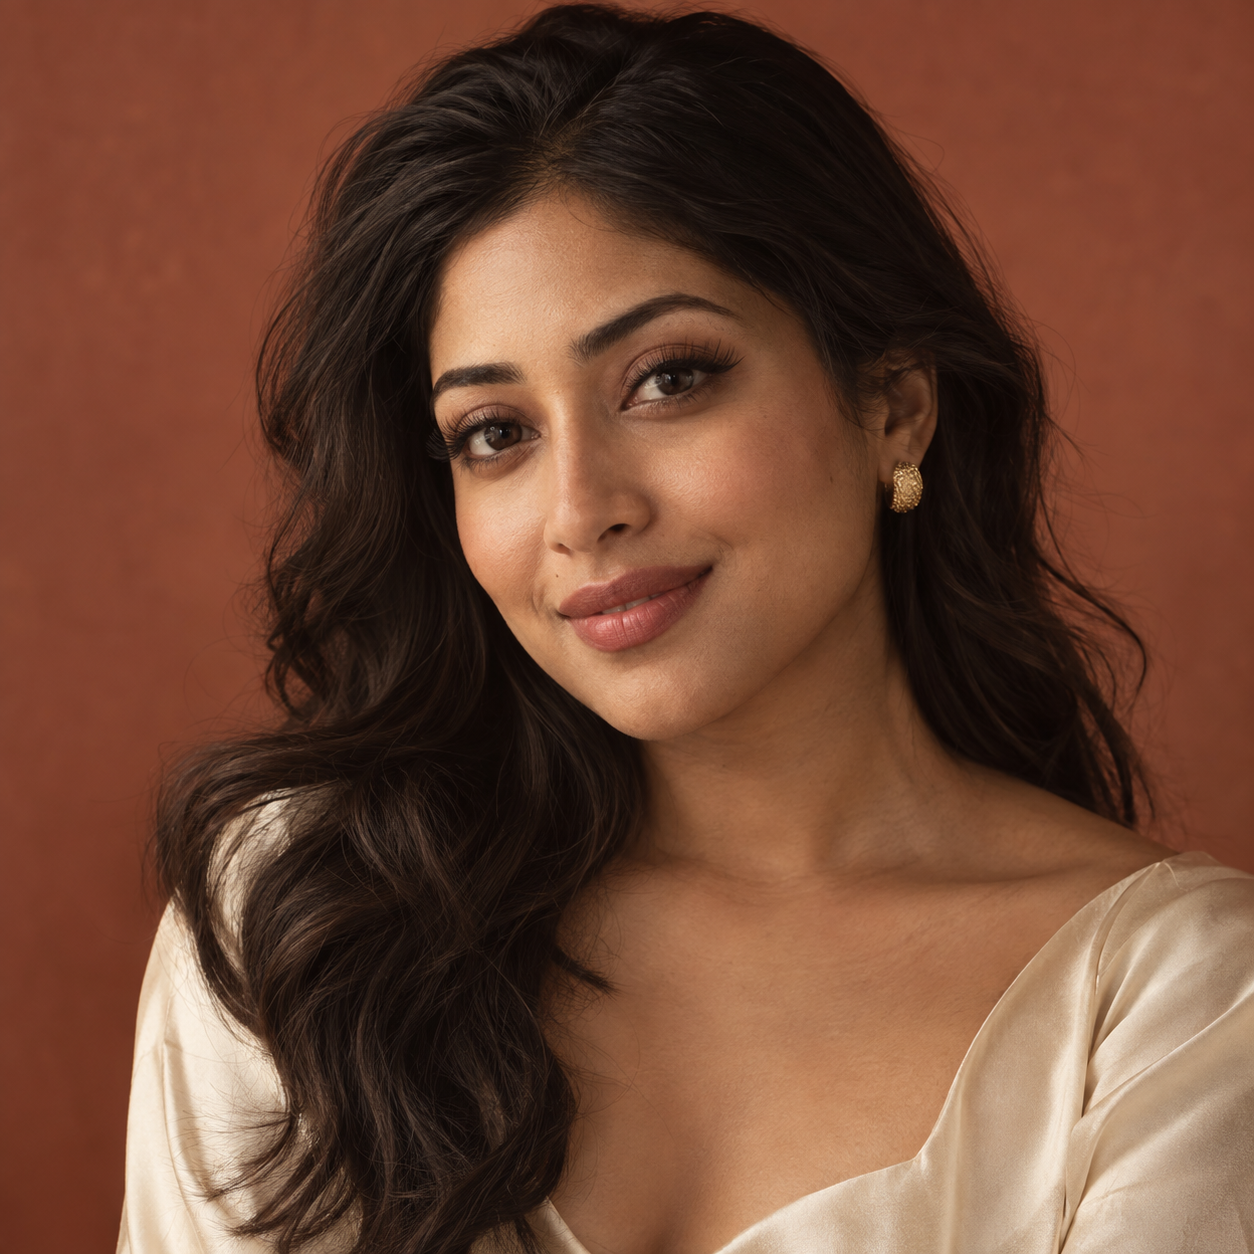
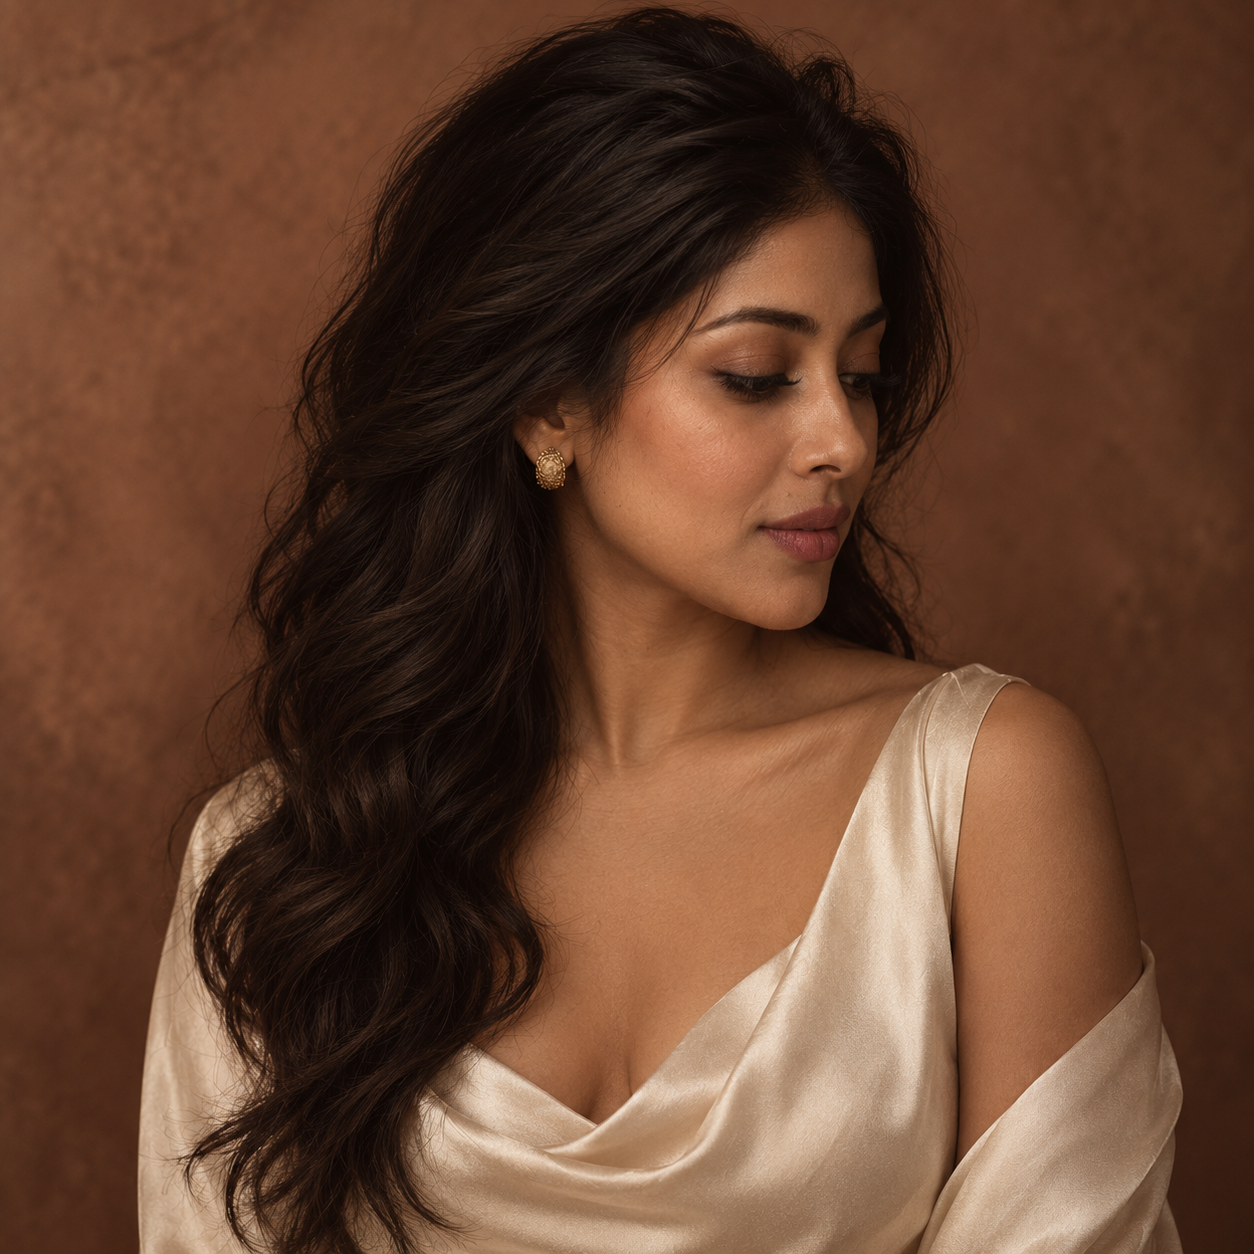
v0.0.0.1-BengaliBlush

diff --git a/src/styles/_bengali-blush.scss b/src/styles/_bengali-blush.scss
@@ -26,6 +26,7 @@
   --app-font-sans: var(--font-dm-sans), sans-serif;
   --app-font-serif: var(--font-fraunces), Georgia, serif;
   --app-font-mono: var(--font-dm-mono), monospace;
+  --app-font-signature: var(--font-allura), 'Brush Script MT', cursive;
 }
 
 // #mobile-navigation {
@@ -73,17 +74,17 @@ a { color: inherit; text-decoration: none; }
 .bb-section-heading p { max-width: 330px; margin: 0 0 4px; color: hsl(var(--muted-foreground)); line-height: 1.65; font-size: 14px; }
 
 .bb-header { position: absolute; z-index: 25; inset: 0 0 auto; border-bottom: 1px solid transparent; background: transparent; color: hsl(var(--card)); transition: color .3s ease, border-color .36s ease, box-shadow .36s ease; }
-.bb-header::before { position: absolute; z-index: -1; inset: 0; background: hsl(var(--primary) / 0); backdrop-filter: blur(0) saturate(100%); -webkit-backdrop-filter: blur(0) saturate(100%); content: ''; pointer-events: none; transition: background-color .36s ease, backdrop-filter .42s cubic-bezier(.2,.85,.25,1), -webkit-backdrop-filter .42s cubic-bezier(.2,.85,.25,1); }
+.bb-header::before { position: absolute; z-index: -1; inset: 0; background: hsl(var(--primary) / 0); -webkit-backdrop-filter: blur(0) saturate(100%); backdrop-filter: blur(0) saturate(100%); content: ''; pointer-events: none; transition: background-color .36s ease, backdrop-filter .42s cubic-bezier(.2,.85,.25,1), -webkit-backdrop-filter .42s cubic-bezier(.2,.85,.25,1); }
 .bb-header.is-sticky { position: fixed; }
 .bb-header.is-sticky.is-scrolled, .bb-header.is-menu-open { border-color: hsl(var(--secondary) / .16); box-shadow: 0 12px 34px hsl(340 32% 15% / .14); }
-.bb-header.is-sticky.is-scrolled::before, .bb-header.is-menu-open::before { background: hsl(var(--primary) / .74); backdrop-filter: blur(20px) saturate(125%); -webkit-backdrop-filter: blur(20px) saturate(125%); }
+.bb-header.is-sticky.is-scrolled::before, .bb-header.is-menu-open::before { background: hsl(var(--primary) / .74); -webkit-backdrop-filter: blur(20px) saturate(125%); backdrop-filter: blur(20px) saturate(125%); }
 .bb-header-inner { position: relative; z-index: 2; display: flex; align-items: center; justify-content: space-between; padding: 24px 0; }
 .bb-header-inner.is-full-width { width: 100%; padding-inline: clamp(18px, 3.2vw, 54px); }
 .bb-logo { display: inline-flex; align-items: center; gap: 11px; border: 0; padding: 0; background: transparent; color: inherit; text-align: left; }
 .bb-logo-mark { display: block; width: 39px; height: 39px; flex: none; background: url('/favicon.svg?v=bb-arc') center / contain no-repeat; }
 .bb-logo-text { font-family: var(--app-font-serif); font-size: 21px; letter-spacing: -.04em; }
 .bb-nav { display: flex; align-items: center; gap: 34px; }
-.bb-nav button { position: relative; display: inline-flex; align-items: center; gap: 6px; border: 0; padding: 0; background: transparent; color: rgba(255, 242, 226, .8); font-size: 12px; }
+.bb-nav button { position: relative; display: inline-flex; align-items: center; gap: 6px; border: 0; padding: 0; background: transparent; color: rgba(255, 242, 226, .8); font-size: 12px; font-weight: 600; }
 .bb-nav button::after { position: absolute; right: 0; bottom: -7px; left: 0; height: 1px; background: hsl(var(--secondary)); content: ''; transform: scaleX(0); transform-origin: right; transition: transform .3s ease; }
 .bb-nav button:hover::after, .bb-nav button:focus-visible::after { transform: scaleX(1); transform-origin: left; }
 .bb-header-actions { display: flex; align-items: center; gap: 13px; }
@@ -102,9 +103,10 @@ a { color: inherit; text-decoration: none; }
 .bb-header.is-menu-open .bb-menu-icon > span:nth-child(1) { transform: rotate(45deg); }
 .bb-header.is-menu-open .bb-menu-icon > span:nth-child(2) { opacity: 0; transform: scaleX(.25); }
 .bb-header.is-menu-open .bb-menu-icon > span:nth-child(3) { transform: rotate(-45deg); }
+.bb-bag-control { position: relative; display: inline-flex; }
 .bb-bag-button { position: relative; display: inline-flex; width: 40px; height: 40px; align-items: center; justify-content: center; border: 1px solid hsl(var(--card) / .45); border-radius: 50%; background: transparent; color: hsl(var(--card)); transition: border-color .2s ease, color .2s ease; }
 .bb-bag-button:hover { border-color: hsl(var(--secondary)); }
-.bb-bag-count { position: absolute; top: -1px; right: -1px; display: grid; width: 17px; height: 17px; place-items: center; border-radius: 50%; background: hsl(var(--secondary)); color: hsl(var(--foreground)); font-family: var(--app-font-mono); font-size: 9px; }
+.bb-bag-count { position: absolute; top: -1px; right: -1px; display: grid; width: 17px; height: 17px; place-items: center; border-radius: 50%; background: hsl(var(--secondary)); color: hsl(var(--foreground)); font-family: var(--app-font-mono); font-size: 9px; pointer-events: none; }
 .bb-mobile-panel { display: none; }
 
 .bb-hero { position: relative; min-height: 740px; display: flex; align-items: center; color: hsl(var(--card)); background: hsl(var(--primary)); }
@@ -137,11 +139,12 @@ a { color: inherit; text-decoration: none; }
 .bb-intro-copy h2 { margin: 18px 0 21px; max-width: 550px; font-family: var(--app-font-serif); font-size: clamp(41px, 5.2vw, 74px); font-weight: 500; line-height: 1.03; letter-spacing: -.055em; }
 .bb-intro-copy h2 em { color: hsl(var(--primary)); }
 .bb-intro-copy > p { max-width: 430px; color: hsl(var(--muted-foreground)); font-size: 15px; line-height: 1.75; }
-.bb-founder-note { max-width: 440px; margin-top: 30px; border-top: 1px solid hsl(var(--primary) / .25); padding-top: 20px; }
+.bb-founder-note { max-width: 440px; margin-top: 30px; }
 .bb-founder-meta { display: flex; flex-wrap: wrap; justify-content: space-between; gap: 8px 18px; margin-top: 16px; color: hsl(var(--primary)); font-family: var(--app-font-mono); font-size: 10px; letter-spacing: .1em; text-transform: uppercase; }
+.bb-founder-meta span:first-child { color: hsl(var(--foreground)); }
 .bb-founder-signature { display: grid; gap: 2px; color: hsl(var(--primary)); font-family: var(--app-font-serif); }
-.bb-founder-signature span { font-size: 18px; font-style: italic; }
-.bb-founder-signature strong { font-size: clamp(27px, 3vw, 35px); font-style: italic; font-weight: 500; letter-spacing: -.045em; line-height: 1.15; }
+.bb-founder-signature span { color: hsl(var(--foreground)); font-size: 18px; font-style: italic; }
+.bb-founder-signature strong { font-family: var(--app-font-signature); font-size: clamp(36px, 4vw, 48px); font-style: normal; font-weight: 400; letter-spacing: 0; line-height: 1.2; }
 .bb-intro-art { position: relative; min-height: 450px; }
 .bb-intro-circle { position: absolute; top: 8%; right: 4%; width: min(370px, 80%); aspect-ratio: 1; border-radius: 50%; background: hsl(var(--secondary)); }
 .bb-intro-photo { position: absolute; top: 0; right: 16%; width: 63%; height: 90%; border-radius: 48% 48% 12px 12px; background: center/cover no-repeat url('/party-makeup.jpg'); filter: saturate(.9); }
@@ -270,7 +273,8 @@ a { color: inherit; text-decoration: none; }
 .bb-story-copy:active { cursor: grabbing; }
 .bb-story-image-track, .bb-review-heading-track, .bb-testimonial-track { display: flex; width: 100%; height: 100%; transition: transform .65s cubic-bezier(.2, .75, .2, 1); }
 .bb-story-image-track.is-dragging, .bb-review-heading-track.is-dragging, .bb-testimonial-track.is-dragging { transition: none; }
-.bb-story-image-slide { height: 100%; flex: 0 0 100%; background: center/cover no-repeat; }
+.bb-story-image-slide { height: 100%; flex: 0 0 100%; padding-inline: 12px; }
+.bb-story-image-photo { height: 100%; border-radius: 48% 48% 12px 12px; background: center/cover no-repeat; }
 .bb-review-eyebrow { color: hsl(var(--secondary)); }
 .bb-review-heading-viewport { overflow: hidden; }
 .bb-review-heading-slide { display: flex; min-width: 0; flex: 0 0 100%; align-items: center; gap: clamp(6px, 1vw, 12px); }
@@ -421,7 +425,7 @@ a { color: inherit; text-decoration: none; }
   .bb-mobile-nav-link:hover, .bb-mobile-nav-link:focus-visible { border-color: hsl(var(--secondary) / .58); background: hsl(var(--secondary) / .09); color: hsl(var(--secondary)); }
   .bb-mobile-nav-index { padding-top: 3px; color: hsl(var(--secondary)); font-family: var(--app-font-mono); font-size: 8px; letter-spacing: .08em; }
   .bb-mobile-nav-copy { display: grid; gap: 8px; }
-  .bb-mobile-nav-copy > span { display: inline-flex; align-items: center; gap: 7px; font-family: var(--app-font-serif); font-size: 21px; line-height: 1; }
+  .bb-mobile-nav-copy > span { display: inline-flex; align-items: center; gap: 7px; font-family: var(--app-font-serif); font-size: 21px; font-weight: 600; line-height: 1; }
   .bb-mobile-nav-copy small { color: hsl(var(--card) / .52); font-size: 10px; line-height: 1.35; }
   .bb-mobile-menu-book { display: flex; min-height: 64px; align-items: center; justify-content: space-between; gap: 16px; border: 0; border-radius: 12px; padding: 11px 12px 11px 17px; background: hsl(var(--secondary)); color: hsl(var(--foreground)); text-align: left; opacity: 0; transform: translateY(-6px); transition: background-color .2s ease, opacity .22s ease .25s, transform .32s cubic-bezier(.2,.85,.25,1) .25s; }
   .bb-mobile-panel.is-open .bb-mobile-menu-book { opacity: 1; transform: translateY(0); }

diff --git a/src/app/components/landing/bengali-blush-landing.tsx b/src/app/components/landing/bengali-blush-landing.tsx
@@ -59,7 +59,7 @@ const sampleTestimonials = [
     heading: { first: `You`, accent: `shine`, last: `your way` },
     service: `first-time lash client`,
     image: `/testimonial-aisha.png`,
-    imageAlt: `Editorial portrait of a fictional client in cream silk against a terracotta backdrop`,
+    imageAlt: `Editorial portrait of a fictional client in cream silk against an earthy brown backdrop`,
     quote: `I was nervous for my first set. Sadia explained everything and made me feel comfortable.`,
   },
   {
@@ -68,7 +68,7 @@ const sampleTestimonials = [
     heading: { first: `The`, accent: `magic`, last: `is yours` },
     service: `lash fill client`,
     image: `/testimonial-maya.png`,
-    imageAlt: `Editorial portrait of a fictional woman with light warm skin and a dark shoulder-length bob, wearing burgundy satin`,
+    imageAlt: `Editorial portrait of a fictional woman with a dark shoulder-length bob in burgundy satin against an earthy brown backdrop`,
     quote: `I came in for a fill before a wedding. Sadia took her time, and they looked fresh again.`,
   },
 ];
@@ -158,7 +158,10 @@ function Hero({ onBook }: { onBook: () => void }) {
       <div className="bb-hero-content">
         <div className="bb-hero-copy" data-hero-reveal>
           <SectionMarker icon={Sparkles} index="01" title="Welcome" inverse />
-          <span className="bb-eyebrow" style={{ color: 'hsl(38 75% 67%)' }}>Beauty, with feeling</span>
+          <span className="bb-eyebrow" style={{ color: 'hsl(38 75% 67%)' }}>
+            Beauty, with feeling
+            <span className="bb-flag-mark" aria-hidden="true"><span /></span>
+          </span>
           <h1 aria-label="Come for the glow. Stay for the feeling.">
             <RevealLine>Come for the</RevealLine><br />
             <RevealLine index={1}><em>glow.</em> Stay</RevealLine><br />
@@ -184,22 +187,35 @@ function Intro() {
       <div className="bb-container bb-intro-grid">
         <div className="bb-intro-copy" data-reveal>
           <SectionMarker icon={Heart} index="02" title="Our Story" />
-          <span className="bb-eyebrow">The Bengali Blush feeling</span>
-          <h2 aria-label="Soft glam. Big energy. Always you.">
-            <RevealLine>Soft glam.</RevealLine><br />
-            <RevealLine index={1}><em>Big energy.</em></RevealLine><br />
-            <RevealLine index={2}>Always you.</RevealLine>
+          <span className="bb-eyebrow">
+            California Girls
+          </span>
+          <h2 aria-label="Bangladesh Los Angeles Atlanta">
+            <RevealLine>Bangladesh</RevealLine><br />
+            <RevealLine index={1}><em>Los Angeles</em></RevealLine><br />
+            <RevealLine index={2}>Atlanta</RevealLine>
           </h2>
-          <p>There is no one way to be beautiful. We create looks that feel like you on your very best day: considered, expressive, and impossible to forget.</p>
+          {/* <p>There is no one way to be beautiful. We create looks that feel like you on your very best day: considered, expressive, and impossible to forget.</p> */}
           <div className="bb-founder-note">
-            <div className="bb-founder-signature"><span>with love,</span><strong>Sadia Islam Misty</strong></div>
-            <div className="bb-founder-meta"><span>Certified Lash Technician</span><span>LA to ATL</span></div>
+            <div className="bb-founder-signature">
+              <span>with love,</span>
+              <strong>Sadia Islam Misty</strong>
+            </div>
+            <div className="bb-founder-meta" style={{ flexDirection: `row-reverse` }}>
+              <span>Certified Lash Technician</span>
+              <span></span>
+            </div>
           </div>
         </div>
         <div className="bb-intro-art" aria-label="Bengali Blush founder wearing party makeup" data-reveal>
           <div className="bb-intro-circle" />
           <div className="bb-intro-photo" />
-          <div className="bb-intro-stamp"><div><strong>BB</strong><span>since 2021</span></div></div>
+          <div className="bb-intro-stamp">
+            <div>
+              <strong>BB</strong>
+              <span>since 2021</span>
+            </div>
+          </div>
         </div>
       </div>
     </section>
@@ -214,12 +230,15 @@ function Services({ onBook }: { onBook: (service?: Service) => void }) {
           <div>
             <SectionMarker icon={WandSparkles} index="03" title="Services" />
             <div className="bb-services-heading-top">
-              <span className="bb-eyebrow">Choose your moment</span>
-              <span className="bb-flag-mark" aria-hidden="true"><span /></span>
+              <span className="bb-eyebrow">
+                Choose Services
+              </span>
             </div>
-            <h2 aria-label="The menu, made for your plans."><RevealLine>The menu, made</RevealLine><br /><RevealLine index={1}>for your plans.</RevealLine></h2>
+            <h2 aria-label="Services Menu">
+              <RevealLine>Services Menu</RevealLine>
+            </h2>
           </div>
-          <p>From a first-date flutter to full celebration glam, every service is paced with care and finished with a mirror moment.</p>
+          <p>Prices are negotiable.</p>
         </div>
         <div className="bb-service-list" data-reveal>
           {services.map((service) => (
@@ -617,14 +636,19 @@ function Reviews() {
           <div className={`bb-story-image-track${isDragging ? ` is-dragging` : ``}`} style={trackStyle}>
             {sampleTestimonials.map((testimonial, index) => (
               <div
-                className="bb-story-image-slide"
+                className={`bb-story-image-slide`}
                 id={`review-portrait-${index + 1}`}
                 key={testimonial.name}
-                role="img"
-                aria-label={testimonial.imageAlt}
                 aria-hidden={index !== activeTestimonialIndex}
-                style={{ backgroundImage: `url(${testimonial.image})` }}
-              />
+              >
+                <div
+                  role={`img`}
+                  className={`bb-story-image-photo`}
+                  aria-label={testimonial.imageAlt}
+                  id={`review-portrait-photo-${index + 1}`}
+                  style={{ backgroundImage: `url(${testimonial.image})` }}
+                />
+              </div>
             ))}
           </div>
         </div>

diff --git a/src/app/layout.tsx b/src/app/layout.tsx
@@ -1,11 +1,11 @@
 import './globals.scss';
 
-import { Analytics } from '@vercel/analytics/next';
 import type { Metadata, Viewport } from 'next';
-import { DM_Mono, DM_Sans, Fraunces } from 'next/font/google';
+import { Analytics } from '@vercel/analytics/next';
 import { siteConfig } from '@/shared/config/site';
 import BlushLoader from '@/app/components/loaders/blush-loader';
 import PwaRegistration from '@/app/components/pwa/pwa-registration';
+import { Allura, DM_Mono, DM_Sans, Fraunces } from 'next/font/google';
 
 const sans = DM_Sans({
   subsets: ['latin'],
@@ -25,6 +25,13 @@ const mono = DM_Mono({
   subsets: ['latin'],
   variable: '--font-dm-mono',
   weight: ['400', '500'],
+});
+
+const signature = Allura({
+  weight: '400',
+  display: 'swap',
+  subsets: ['latin'],
+  variable: '--font-allura',
 });
 
 const siteUrl = process.env.NEXT_PUBLIC_SITE_URL ?? `http://localhost:3000`;
@@ -60,7 +67,7 @@ export const metadata: Metadata = {
 
 export default function RootLayout({ children }: Readonly<{ children: React.ReactNode }>) {
   return (
-    <html lang="en" className={`${sans.variable} ${serif.variable} ${mono.variable}`}>
+    <html lang="en" className={`${sans.variable} ${serif.variable} ${mono.variable} ${signature.variable}`}>
       <body>
         <BlushLoader />
         {children}

diff --git a/src/app/components/navigation/header.tsx b/src/app/components/navigation/header.tsx
@@ -103,10 +103,22 @@ export default function Header({
         </nav>
         <div className="bb-header-actions">
           <button className="bb-ghost-button" onClick={onBook} data-testid="button-header-book"><CalendarDays size={14} strokeWidth={1.6} />Book Now</button>
-          <button className="bb-bag-button" onClick={onBag} aria-label="Open shopping bag" data-testid="button-open-bag">
-            <ShoppingBag size={19} strokeWidth={1.5} />
-            {bagCount > 0 && <span className="bb-bag-count" data-testid="text-bag-count">{bagCount}</span>}
-          </button>
+          <span id={`bb-bag-control`} className={`bb-bag-control`}>
+            <button
+              onClick={onBag}
+              id={`bb-bag-button`}
+              className={`bb-bag-button`}
+              aria-label={`Open shopping bag`}
+              data-testid={`button-open-bag`}
+            >
+              <ShoppingBag size={19} strokeWidth={1.5} />
+            </button>
+            {bagCount > 0 && (
+              <span id={`bb-bag-count`} className={`bb-bag-count`} data-testid={`text-bag-count`}>
+                {bagCount}
+              </span>
+            )}
+          </span>
           <button
             className="bb-menu-button"
             aria-controls="mobile-navigation"
